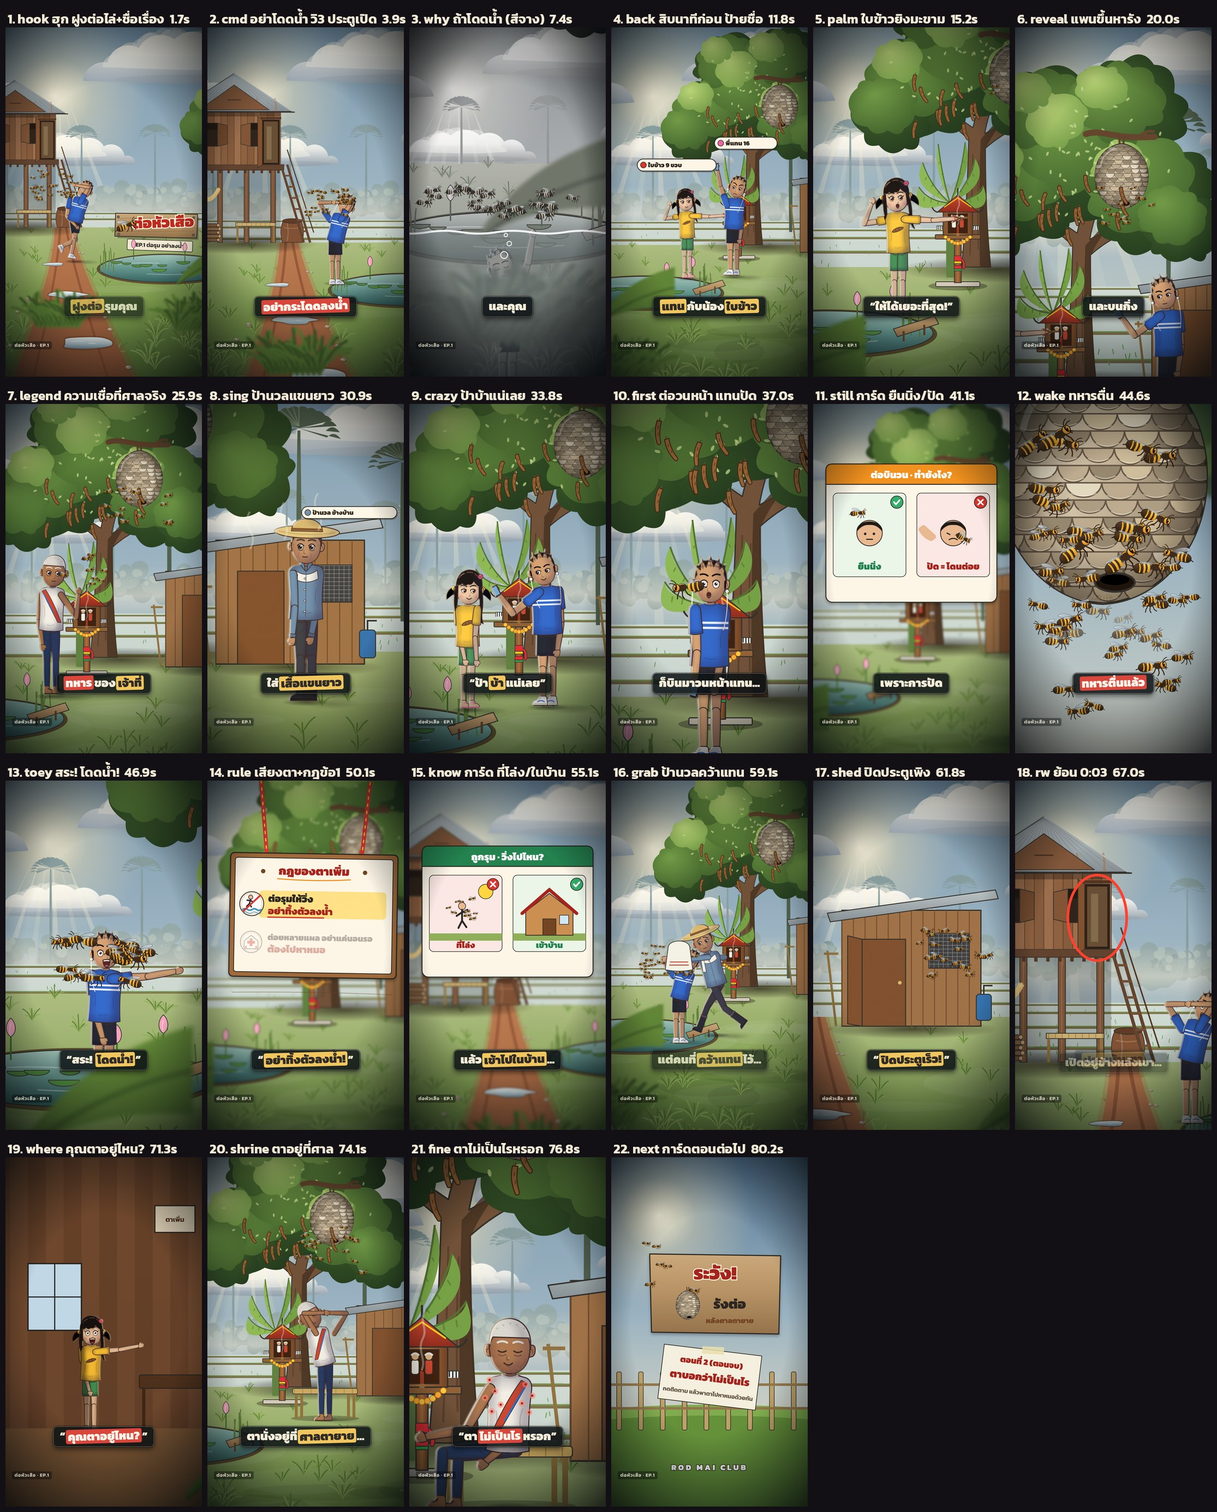
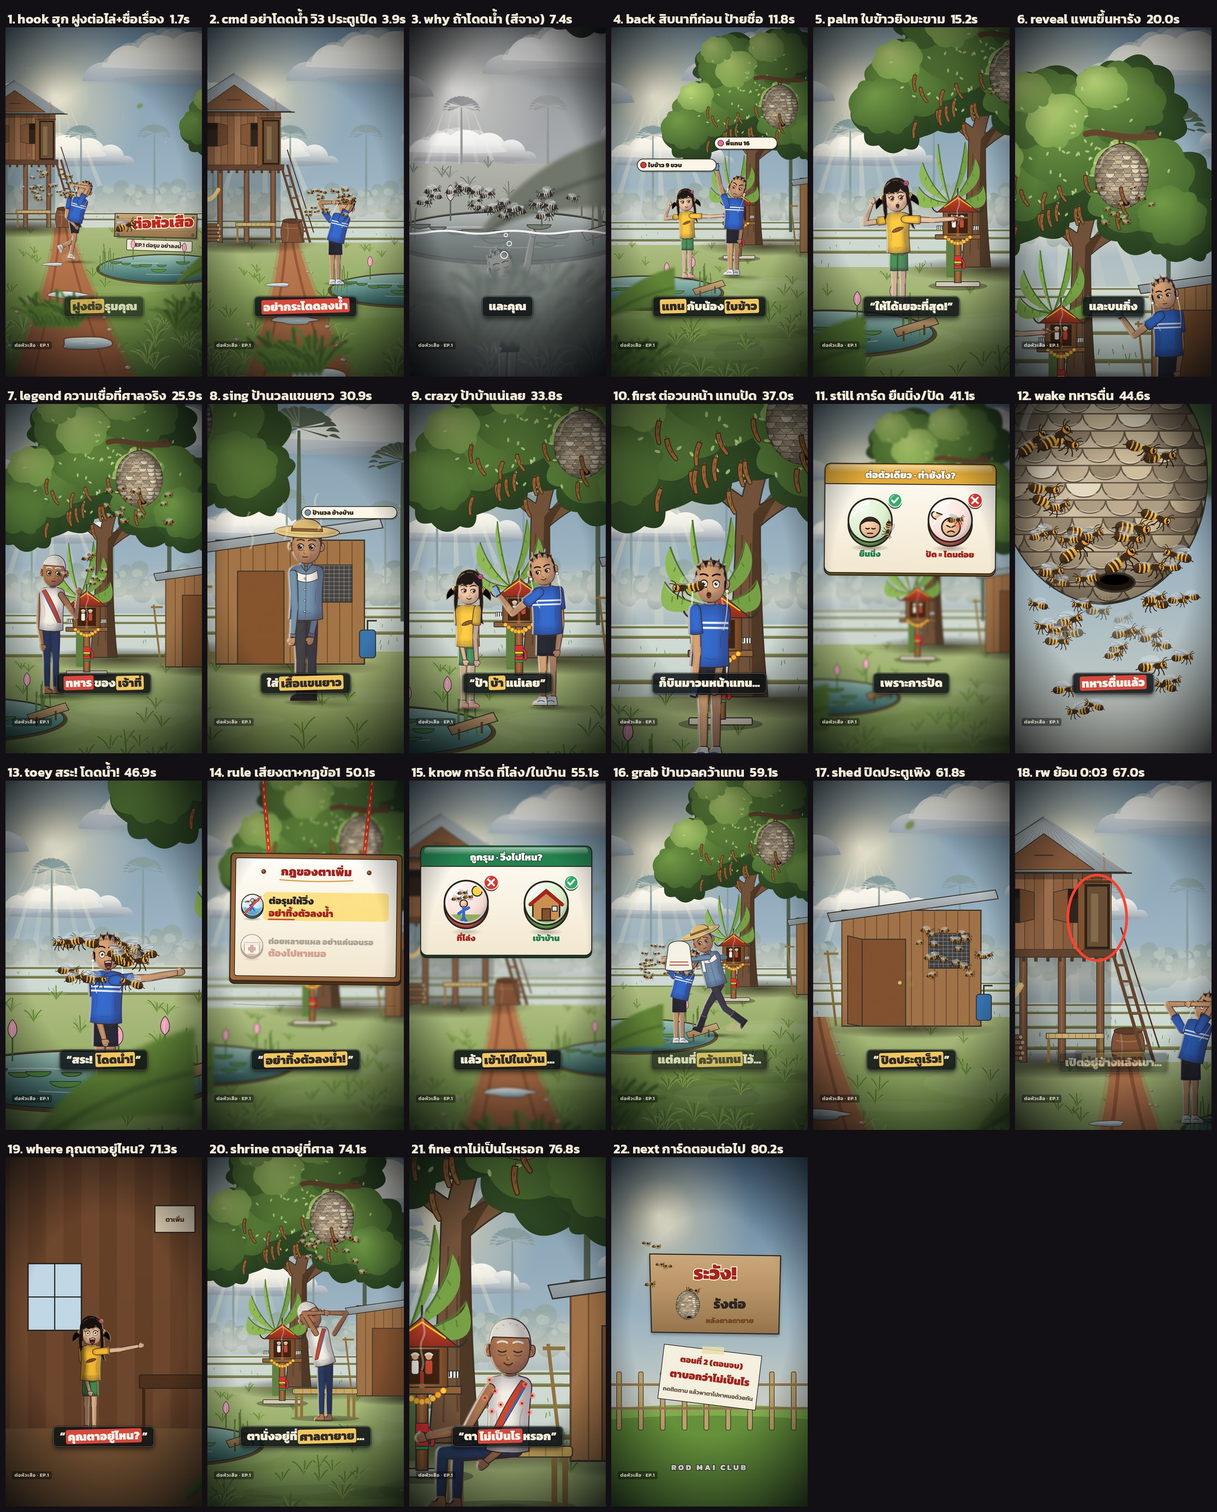
hornet: rig2 joints without the wooden-doll seam (thigh/upper-arm shape redrawn over the knee/elbow, clipped to a disc), panting pose in a real shot, storyboards refreshed
Claude-Session: https://claude.ai/code/session_017iwyCvx1zDsQSsZQNMKKUs

diff --git a/video/hornet/lib/rig2.js b/video/hornet/lib/rig2.js
@@ -1,0 +1,223 @@
+// Rig v2: the same skeleton, joints and ids as rig.js (so every pose mode, track and shot keeps working), drawn as
+// illustrated characters instead of capsule puppets: tapered limbs with form shading, a shaped skull and jaw, eyes with
+// iris and catch-lights, hair in two layers (#id-hairB behind the torso follows the head), clothes with folds and hems,
+// shaped hands and shoes, a soft contact shadow. Thin warm line instead of the heavy black outline.
+// A cast entry opts in with v2: { ... } (see the spec below); Rig.build falls back to the old builder otherwise.
+(function () {
+  const NS = "http://www.w3.org/2000/svg";
+  const LINE = "#3a2622";
+  const f = (v) => (+v).toFixed(1);
+  const rgb = (h) => { h = h.replace("#", ""); return [0, 2, 4].map((i) => parseInt(h.substr(i, 2), 16)); };
+  const hex = (a) => "#" + a.map((v) => Math.max(0, Math.min(255, Math.round(v))).toString(16).padStart(2, "0")).join("");
+  const mix = (a, b, k) => { const A = rgb(a), B = rgb(b); return hex(A.map((v, i) => v + (B[i] - v) * k)); };
+  const dk = (c, k) => mix(c, "#000000", k);
+  // shadows lean cool and violet, never plain grey
+  const shade = (c, k = 0.24) => mix(dk(c, k), "#3b2a5c", 0.14);
+  const hi = (c, k = 0.25) => mix(c, "#fff6e6", k);
+
+  Sets.DEFS += `
+    <linearGradient id="r2Cyl" x1="0" y1="0" x2="1" y2="0"><stop offset="0" stop-color="#1c1030" stop-opacity=".26"/><stop offset=".28" stop-color="#1c1030" stop-opacity="0"/>
+      <stop offset=".66" stop-color="#1c1030" stop-opacity="0"/><stop offset="1" stop-color="#1c1030" stop-opacity=".3"/></linearGradient>
+    <linearGradient id="r2AO" x1="0" y1="0" x2="0" y2="1"><stop offset="0" stop-color="#1c1030" stop-opacity=".22"/><stop offset=".22" stop-color="#1c1030" stop-opacity="0"/>
+      <stop offset=".8" stop-color="#1c1030" stop-opacity="0"/><stop offset="1" stop-color="#1c1030" stop-opacity=".28"/></linearGradient>
+    <radialGradient id="r2Head" cx=".42" cy=".38" r=".66"><stop offset=".55" stop-color="#3a1424" stop-opacity="0"/><stop offset="1" stop-color="#3a1424" stop-opacity=".3"/></radialGradient>
+    <radialGradient id="r2Blush"><stop offset="0" stop-color="#ff6a7a" stop-opacity=".42"/><stop offset="1" stop-color="#ff6a7a" stop-opacity="0"/></radialGradient>
+    <radialGradient id="r2Contact"><stop offset="0" stop-color="#0a0608" stop-opacity=".55"/><stop offset=".6" stop-color="#0a0608" stop-opacity=".25"/><stop offset="1" stop-color="#0a0608" stop-opacity="0"/></radialGradient>
+    <radialGradient id="r2EyeGlow"><stop offset="0" stop-color="#d8ff9a" stop-opacity=".75"/><stop offset=".45" stop-color="#7dff6a" stop-opacity=".25"/><stop offset="1" stop-color="#7dff6a" stop-opacity="0"/></radialGradient>`;
+
+  // a tapered limb from (0,0) to (0,len): rounded ends overlap the joints, a slight swell at the top third
+  const limbD = (len, w0, w1, sw = 2) => {
+    const a = w0 / 2, b = w1 / 2;
+    return `M${f(-a)},0C${f(-a)},${f(-a * 1.3)} ${f(a)},${f(-a * 1.3)} ${f(a)},0Q${f(a + sw)},${f(len * 0.38)} ${f(b)},${f(len)}` +
+      `C${f(b)},${f(len + b * 1.3)} ${f(-b)},${f(len + b * 1.3)} ${f(-b)},${f(len)}Q${f(-a - sw * 0.6)},${f(len * 0.38)} ${f(-a)},0Z`;
+  };
+  const paint = (d, fill, o = {}) => `<path d="${d}" fill="${fill}" stroke="${o.line || LINE}" stroke-width="${o.sw ?? 2.6}" stroke-linejoin="round"/>` +
+    (o.cyl === false ? "" : `<path d="${d}" fill="url(#r2Cyl)"/>`) + (o.ao ? `<path d="${d}" fill="url(#r2AO)"/>` : "");
+
+  // ---------------- face ----------------
+  const EX = [-17, 19], EY = -548;
+  function eyeSet(P) {
+    const iris = P.iris || "#4a2e20", brow = P.brow || P.hair.c, lid = LINE, lash = P.lash;
+    const sclera = (rx, ry, dy = 0) => EX.map((x) => `<ellipse cx="${x}" cy="${EY + dy}" rx="${rx}" ry="${ry}" fill="#fbf7f0" stroke="${lid}" stroke-width="1.6"/>`).join("");
+    const pupil = (r, dx = 1.5, dy = 1) => EX.map((x) => `<circle cx="${x + dx}" cy="${EY + dy}" r="${r}" fill="${iris}"/><circle cx="${x + dx}" cy="${EY + dy}" r="${f(r * 0.55)}" fill="#160e0c"/>
+      <circle cx="${f(x + dx - r * 0.38)}" cy="${f(EY + dy - r * 0.45)}" r="${f(Math.max(1.6, r * 0.32))}" fill="#fff"/><circle cx="${f(x + dx + r * 0.35)}" cy="${f(EY + dy + r * 0.42)}" r="1" fill="#fff" opacity=".8"/>`).join("");
+    const lids = (lift = 0) => EX.map((x, i) => `<path d="M${x - 10},${EY - 3 - lift}Q${x},${EY - 15 - lift} ${x + 10},${EY - 4 - lift}" stroke="${lid}" stroke-width="3.4" fill="none" stroke-linecap="round"/>` +
+      (lash ? `<path d="M${x + (i ? 10 : -10)},${EY - 4 - lift}l${i ? 4 : -4},-4" stroke="${lid}" stroke-width="2.6" stroke-linecap="round"/>` : "")).join("");
+    const brows = (ty = 0, tilt = 0) => EX.map((x, i) => { const s = i ? 1 : -1, inner = -tilt * 1, outer = tilt * 0.6;
+      return `<path d="M${x - 11},${EY - 20 + ty + (s < 0 ? outer : inner)}Q${x},${EY - 26 + ty} ${x + 11},${EY - 20 + ty + (s < 0 ? inner : outer)}" stroke="${brow}" stroke-width="4.6" fill="none" stroke-linecap="round"/>`; }).join("");
+    const bags = P.bags ? EX.map((x) => `<path d="M${x - 9},${EY + 9}q9,7 18,0" stroke="${shade(P.skin, 0.3)}" stroke-width="3" fill="none" opacity=".8"/>`).join("") : "";
+    return {
+      normal: sclera(8.6, 10.4) + pupil(6.8) + lids() + brows() + bags,
+      side: sclera(8.6, 9.6) + pupil(6.4, 4.2, 1.5) + EX.map((x) => `<path d="M${x - 10},${EY - 2}Q${x},${EY - 12} ${x + 10},${EY - 3}L${x + 10},${EY - 10}H${x - 10}Z" fill="${P.skin}"/>`).join("") +
+        EX.map((x) => `<path d="M${x - 10},${EY - 2}Q${x},${EY - 10} ${x + 10},${EY - 3}" stroke="${lid}" stroke-width="3.4" fill="none" stroke-linecap="round"/>`).join("") + brows(2, -2) + bags,
+      wide: sclera(10, 12.4, -1) + pupil(4.6, 0.5, -1) + lids(3) + brows(-7, -2) + bags,
+      closed: EX.map((x) => `<path d="M${x - 9},${EY + 1}Q${x},${EY + 7} ${x + 9},${EY + 1}" stroke="${lid}" stroke-width="3.2" fill="none" stroke-linecap="round"/>`).join("") + brows(2) + bags,
+      pain: EX.map((x, i) => { const s = i ? -1 : 1; return `<path d="M${x - 9 * s},${EY - 5}L${x + 6 * s},${EY}L${x - 9 * s},${EY + 5}" stroke="${lid}" stroke-width="3.4" fill="none" stroke-linecap="round" stroke-linejoin="round"/>`; }).join("") + brows(4, 6),
+      glow: EX.map((x) => `<circle cx="${x}" cy="${EY}" r="22" fill="url(#r2EyeGlow)"/><ellipse cx="${x}" cy="${EY}" rx="9" ry="10" fill="#c8ff9a"/><ellipse cx="${x}" cy="${EY}" rx="4" ry="5" fill="#f4ffe8"/>`).join("") + brows(4, 7),
+      dead: EX.map((x) => `<ellipse cx="${x}" cy="${EY}" rx="11" ry="10" fill="#22201c" opacity=".55"/><ellipse cx="${x}" cy="${EY}" rx="8.6" ry="9.6" fill="#e6eadc" stroke="${lid}" stroke-width="1.6"/><circle cx="${x + 2}" cy="${EY + 1}" r="2" fill="#5a1010"/>`).join("") + brows(3, 5),
+      worry: sclera(8.6, 10.4) + pupil(6.2, 1, 1.5) + lids() + brows(-3, -6) + bags,
+      angry: sclera(8.6, 8.8, 1) + pupil(6, 1.5, 2) + lids(-2) + brows(5, 7) + bags,
+    };
+  }
+  function mouthSet(P) {
+    const lip = P.lip || shade(P.skin, 0.32), inner = "#5a1e1e", tongue = "#d86a6a";
+    return {
+      smile: `<path d="M-5,-519Q4,-510 14,-519" stroke="${LINE}" stroke-width="3" fill="none" stroke-linecap="round"/><path d="M-1,-512q5,2 10,0" stroke="${lip}" stroke-width="2" fill="none" opacity=".6"/>`,
+      flat: `<path d="M-4,-516Q4,-514 12,-516" stroke="${LINE}" stroke-width="3" fill="none" stroke-linecap="round"/>`,
+      o: `<path d="M-1,-522Q4,-525 9,-522Q12,-512 4,-507Q-4,-512 -1,-522Z" fill="${inner}" stroke="${LINE}" stroke-width="2.4"/><path d="M0,-511q4,-3 8,0" fill="${tongue}"/>`,
+      frown: `<path d="M-5,-511Q4,-519 14,-511" stroke="${LINE}" stroke-width="3" fill="none" stroke-linecap="round"/>`,
+      scream: `<path d="M-9,-524Q4,-528 17,-524Q16,-500 4,-497Q-8,-500 -9,-524Z" fill="${inner}" stroke="${LINE}" stroke-width="2.6"/>
+        <path d="M-7,-523Q4,-526 15,-523L14,-519Q4,-521 -6,-519Z" fill="#f4eee2"/><path d="M-3,-503q7,-6 14,0q-7,4 -14,0z" fill="${tongue}"/>`,
+      snarl: `<path d="M-15,-526Q4,-534 23,-526L20,-506Q4,-498 -12,-506Z" fill="#220505" stroke="${LINE}" stroke-width="2.6"/>
+        <path d="M-12,-525l3,6l3,-6l3,6l3,-6l3,6l3,-6l3,6l3,-6l3,6" stroke="#ece4cf" stroke-width="2.4" fill="none" stroke-linejoin="round"/>`,
+      laugh: `<path d="M-7,-522Q4,-524 16,-522Q14,-506 4,-505Q-6,-506 -7,-522Z" fill="${inner}" stroke="${LINE}" stroke-width="2.6"/><path d="M-5,-521Q4,-523 14,-521L13,-518Q4,-519 -4,-518Z" fill="#f4eee2"/>`,
+    };
+  }
+
+  // ---------------- clothes ----------------
+  // torso outlines by cut; all share the neck at y -488 and the hem near -296
+  function torsoD(kind, w = 1) {
+    const X = (x) => f(x * w);
+    if (kind === "tank") return `M${X(-20)},-488Q0,-472 ${X(20)},-488L${X(32)},-488Q${X(36)},-460 ${X(56)},-450L${X(57)},-424Q${X(55)},-360 ${X(58)},-298Q0,-288 ${X(-58)},-298Q${X(-55)},-360 ${X(-57)},-424L${X(-56)},-450Q${X(-36)},-460 ${X(-32)},-488Z`;
+    if (kind === "coat") return `M${X(-22)},-492Q0,-480 ${X(22)},-492L${X(46)},-486Q${X(64)},-480 ${X(64)},-456L${X(62)},-420Q${X(64)},-330 ${X(72)},-230Q0,-218 ${X(-72)},-230Q${X(-64)},-330 ${X(-62)},-420L${X(-64)},-456Q${X(-64)},-480 ${X(-46)},-486Z`;
+    // tee / shirt / blouse / singlet base: rounded shoulders, a slight waist, a soft hem
+    return `M${X(-22)},-490Q0,-478 ${X(22)},-490L${X(46)},-485Q${X(64)},-479 ${X(64)},-456L${X(61)},-424Q${X(56)},-370 ${X(62)},-296Q${X(30)},-288 0,-290Q${X(-30)},-288 ${X(-62)},-296Q${X(-56)},-370 ${X(-61)},-424L${X(-64)},-456Q${X(-64)},-479 ${X(-46)},-485Z`;
+  }
+
+  function build2(parent, id, P) {
+    const V = P.v2, skin = V.skin, skinS = shade(skin, 0.2), skinD = shade(skin, 0.34), top = V.top.c, w = V.w || 1, k = V.limb || 1;
+    const hair = { c: V.hair.c, s: V.hair.s || shade(V.hair.c, 0.35), sh: V.hair.sh || hi(V.hair.c, 0.35) };
+    const ctx = { skin, skinS, skinD, hair, top, topS: shade(top), LINE, id };
+    const back = (c) => dk(c, 0.1);
+
+    // ---- legs ----
+    const bt = V.bottom, pc = bt.c;
+    const leg = (side) => {
+      const B = side === "B", c = B ? back(pc) : pc, sk = B ? back(skin) : skin;
+      let thigh, shin;
+      const tw0 = 46 * k, tw1 = 36 * k, sw0 = 35 * k, sw1 = 26 * k;
+      if (bt.kind === "shorts") {
+        thigh = paint(limbD(150, tw0 - 6, tw1 - 6), sk) + paint(`M${f(-tw0 / 2 - 3)},-24H${f(tw0 / 2 + 3)}L${f(tw0 / 2 + 5)},92Q0,98 ${f(-tw0 / 2 - 5)},92Z`, c, { ao: true }) +
+          `<path d="M${f(-tw0 / 2 - 4)},84Q0,90 ${f(tw0 / 2 + 4)},84" stroke="${shade(c, 0.3)}" stroke-width="3" fill="none"/>`;
+        shin = paint(limbD(138, sw0 - 6, sw1 - 4), sk);
+      } else {
+        const flare = bt.kind === "sarong" ? 10 : 0;
+        thigh = paint(limbD(150, tw0 + flare, tw1 + flare), c) + (bt.kind === "jeans" ? `<path d="M${f(tw0 / 2 - 7)},-8Q${f(tw0 / 2 - 4)},80 ${f(tw1 / 2 - 6)},150" stroke="${shade(c, 0.3)}" stroke-width="2" fill="none" opacity=".6"/>` : "") +
+          `<path d="M${f(-tw0 / 2 + 8)},40q8,14 18,12" stroke="${shade(c, 0.32)}" stroke-width="2.4" fill="none" opacity=".55"/>`;
+        shin = paint(limbD(132, sw0 + flare, sw1 + flare + 2), c) +
+          (bt.kind === "jeans" ? `<path d="M${f(-sw1 / 2 - 2)},112H${f(sw1 / 2 + 2)}L${f(sw1 / 2 + 3)},128H${f(-sw1 / 2 - 3)}Z" fill="${hi(c, 0.22)}" stroke="${LINE}" stroke-width="2.2"/>` : "") +
+          (bt.kind === "sarong" ? `<path d="M${f(-sw1 / 2 - flare / 2 - 1)},104H${f(sw1 / 2 + flare / 2 + 1)}" stroke="${bt.band || "#d8a83a"}" stroke-width="7"/><path d="M${f(-sw1 / 2 - flare / 2)},116H${f(sw1 / 2 + flare / 2)}" stroke="${bt.band2 || "#a8342a"}" stroke-width="4"/>` : "") +
+          `<path d="M${f(-sw0 / 2 + 6)},30q6,30 2,60" stroke="${shade(c, 0.3)}" stroke-width="2.2" fill="none" opacity=".45"/>`;
+      }
+      const ft = V.feet || { kind: "bare" };
+      let foot;
+      if (ft.kind === "sneaker") {
+        const sc = B ? back(ft.c || "#f4f2ec") : ft.c || "#f4f2ec";
+        foot = `<path d="M-17,120Q-18,108 -6,108H10Q18,110 22,122Q40,126 42,140V146H-19Q-21,134 -17,120Z" fill="${sc}" stroke="${LINE}" stroke-width="2.6" stroke-linejoin="round"/>
+          <path d="M-19,140H42" stroke="${ft.sole || "#d8d2c4"}" stroke-width="6"/><path d="M-19,146H42" stroke="${LINE}" stroke-width="2.6"/>
+          <path d="M8,116l8,8M14,114l8,8" stroke="${ft.lace || "#b8b2a6"}" stroke-width="2.4" stroke-linecap="round"/>${ft.mark ? `<path d="M-8,132q14,-10 30,0" stroke="${ft.mark}" stroke-width="3.5" fill="none"/>` : ""}`;
+      } else if (ft.kind === "boot") {
+        const bc = B ? back(ft.c) : ft.c;
+        foot = `<path d="M-19,50H19L20,124Q38,128 40,142V148H-20Z" fill="${bc}" stroke="${LINE}" stroke-width="2.6" stroke-linejoin="round"/><path d="M-19,50H19L20,124Q38,128 40,142V148H-20Z" fill="url(#r2Cyl)"/>
+          <path d="M-21,50H21V60H-21Z" fill="${hi(bc, 0.2)}" stroke="${LINE}" stroke-width="2.2"/><path d="M-20,142H40" stroke="${dk(bc, 0.35)}" stroke-width="5"/>`;
+      } else { // bare feet, optionally a sandal strap
+        const sk2 = B ? back(skin) : skin;
+        foot = `<path d="M-13,118Q-14,110 -4,110H8Q14,114 18,124Q34,128 36,138Q36,144 28,144H-14Q-17,132 -13,118Z" fill="${sk2}" stroke="${LINE}" stroke-width="2.4" stroke-linejoin="round"/>
+          <path d="M22,136v6M28,136v6" stroke="${skinD}" stroke-width="1.6"/>${ft.kind === "sandal" ? `<path d="M-15,144H38" stroke="${ft.c || "#6a4a2a"}" stroke-width="5"/><path d="M6,118q6,10 16,8" stroke="${ft.c || "#6a4a2a"}" stroke-width="4" fill="none"/>` : ""}`;
+      }
+      // hide the wooden-doll seam at the knee (skill V11): after the shin, redraw the thigh's own shape (fill only) clipped to a disc
+      // round the knee — the shin's top-cap outline inside the thigh disappears, the outer silhouette stays, the leg reads as one piece
+      const kw0 = bt.kind === "shorts" ? tw0 - 6 : tw0 + (bt.kind === "sarong" ? 10 : 0), kw1 = bt.kind === "shorts" ? tw1 - 6 : tw1 + (bt.kind === "sarong" ? 10 : 0);
+      const kneeC = bt.kind === "shorts" ? sk : c, kd = limbD(150, kw0, kw1);
+      const knee = `<clipPath id="${id}-kc${side}"><circle cx="0" cy="150" r="${f(kw1 * 0.95)}"/></clipPath><g clip-path="url(#${id}-kc${side})"><path d="${kd}" fill="${kneeC}"/><path d="${kd}" fill="url(#r2Cyl)"/></g>`;
+      return `<g id="${id}-th${side}"><g>${thigh}</g><g transform="translate(0,150)"><g id="${id}-sh${side}">${shin}${foot}</g></g>${knee}</g>`;
+    };
+
+    // ---- arms ----
+    const tp = V.top;
+    const arm = (side, extra = "") => {
+      const B = side === "B", tc = B ? back(top) : top, sk = B ? back(skin) : skin;
+      const sl = tp.sleeve || "short";
+      const uw0 = 31 * k, uw1 = 25 * k, fw0 = 25 * k, fw1 = 19 * k;
+      let upper = paint(limbD(122, uw0, uw1), sl === "none" ? sk : (sl === "long" || sl === "elbow") ? tc : sk);
+      if (sl === "short") upper += paint(`M${f(-uw0 / 2 - 4)},-10Q${f(-uw0 / 2 - 2)},-34 0,-34Q${f(uw0 / 2 + 2)},-34 ${f(uw0 / 2 + 4)},-10L${f(uw0 / 2 + 7)},58Q0,66 ${f(-uw0 / 2 - 7)},58Z`, tc, { ao: true }) +
+        `<path d="M${f(-uw0 / 2 - 5)},52Q0,60 ${f(uw0 / 2 + 5)},52" stroke="${shade(tc, 0.28)}" stroke-width="2.6" fill="none"/>`;
+      if (sl === "elbow") upper += `<path d="M${f(-uw1 / 2 - 4)},110Q0,120 ${f(uw1 / 2 + 4)},110" stroke="${tp.trim || shade(tc, 0.25)}" stroke-width="5" fill="none" stroke-dasharray="${tp.lace ? "5 3" : "none"}"/>`;
+      const fc = sl === "long" ? tc : sk;
+      let fore = paint(limbD(106, fw0, fw1), fc);
+      if (sl === "long") fore += `<path d="M${f(-fw1 / 2 - 3)},92H${f(fw1 / 2 + 3)}L${f(fw1 / 2 + 2)},104H${f(-fw1 / 2 - 2)}Z" fill="${shade(tc, 0.12)}" stroke="${LINE}" stroke-width="2.2"/>`;
+      if (sl === "elbow" || sl === "short" || sl === "none") fore += `<path d="M-6,30q4,20 0,40" stroke="${skinS}" stroke-width="2" fill="none" opacity=".5"/>`;
+      // the hand: a palm with the thumb folded forward, fingers suggested
+      const hc = sk;
+      const hand = `<path d="M-11,104Q-14,118 -10,128Q-2,138 8,132Q14,124 12,108Z" fill="${hc}" stroke="${LINE}" stroke-width="2.4" stroke-linejoin="round"/>
+        <path d="M9,108Q19,112 16,122Q13,126 9,122" fill="${hc}" stroke="${LINE}" stroke-width="2.2" stroke-linejoin="round"/>
+        <path d="M-6,124q4,4 9,3" stroke="${skinD}" stroke-width="1.6" fill="none"/>${V.wristband && !B ? `<path d="M-11,98H11V106H-11Z" fill="${V.wristband}" stroke="${LINE}" stroke-width="2"/>` : ""}`;
+      const tor = `<g id="${id}-torch" display="none" transform="translate(0,118)"><rect x="-9" y="-6" width="18" height="44" rx="4" fill="#3d3833" stroke="${LINE}" stroke-width="2.6"/>
+          <path id="${id}-beam" d="M-8,38L-230,900H230L8,38Z" fill="url(#beamg)"/></g>`;
+      // the elbow seam, same fix as the knee (skipped when the sleeve ends at the elbow: that edge is a real hem)
+      const upEnd = sl === "none" || sl === "short" ? sk : tc, ud = limbD(122, uw0, uw1);
+      const elbow = upEnd === fc ? `<clipPath id="${id}-ec${side}"><circle cx="0" cy="122" r="${f(uw1 * 0.95)}"/></clipPath><g clip-path="url(#${id}-ec${side})"><path d="${ud}" fill="${upEnd}"/><path d="${ud}" fill="url(#r2Cyl)"/></g>` : "";
+      return `<g id="${id}-ua${side}">${upper}<g transform="translate(0,122)"><g id="${id}-fa${side}">${fore}${hand}<g id="${id}-hand${side}">${side === "F" ? tor : ""}${extra}</g></g></g>${elbow}</g>`;
+    };
+
+    // ---- torso ----
+    const tD = torsoD(tp.kind, w);
+    let torso = "";
+    if (tp.kind === "tank" || tp.kind === "singlet") // bare shoulders under the straps
+      torso += paint(`M${f(-22 * w)},-492Q0,-482 ${f(22 * w)},-492L${f(48 * w)},-482Q${f(62 * w)},-474 ${f(60 * w)},-440L${f(-60 * w)},-440Q${f(-62 * w)},-474 ${f(-48 * w)},-482Z`, skin);
+    torso += paint(tD, top, { ao: true });
+    // folds: under the chest, the waist pull, the hem
+    torso += `<path d="M${f(-40 * w)},-404q10,26 4,52M${f(36 * w)},-396q-6,30 2,56M${f(-20 * w)},-318q16,6 34,-2" stroke="${shade(top, 0.3)}" stroke-width="2.6" fill="none" stroke-linecap="round" opacity=".55"/>`;
+    torso += typeof V.print === "function" ? V.print(ctx) : V.print || "";
+    if (tp.neck === "collar") torso += `<path d="M${f(-24 * w)},-494L-2,-466L${f(-8 * w)},-500ZM${f(24 * w)},-494L2,-466L${f(8 * w)},-500Z" fill="${tp.collar || hi(top, 0.15)}" stroke="${LINE}" stroke-width="2.4" stroke-linejoin="round"/>
+      <path d="M0,-466V-300" stroke="${shade(top, 0.3)}" stroke-width="2.4"/>${[-440, -400, -360, -322].map((y) => `<circle cx="4" cy="${y}" r="3.2" fill="${tp.button || hi(top, 0.4)}" stroke="${LINE}" stroke-width="1.4"/>`).join("")}`;
+    else if (tp.kind !== "coat") torso += `<path d="M${f(-22 * w)},-490Q0,-478 ${f(22 * w)},-490" stroke="${shade(top, 0.22)}" stroke-width="5" fill="none" stroke-linecap="round"/>`;
+    if (tp.kind === "coat") torso += `<path d="M${f(-24 * w)},-492L-4,-420V-226M${f(24 * w)},-492L4,-420" stroke="${LINE}" stroke-width="2.4" fill="none"/>
+      <path d="M${f(-22 * w)},-492L-4,-420L${f(-30 * w)},-446L${f(-34 * w)},-480Z M${f(22 * w)},-492L4,-420L${f(30 * w)},-446L${f(34 * w)},-480Z" fill="${hi(top, 0.3)}" stroke="${LINE}" stroke-width="2.2" stroke-linejoin="round"/>
+      <rect x="${f(26 * w)}" y="-380" width="26" height="30" rx="3" fill="${shade(top, 0.08)}" stroke="${LINE}" stroke-width="2"/>`;
+    // the pelvis joins the thighs under the hem (shorts / trousers / sarong)
+    const pelvis = paint(`M${f(-46 * k)},-336H${f(46 * k)}L${f(45 * k)},-296Q${f(24 * k)},-276 0,-286Q${f(-24 * k)},-276 ${f(-45 * k)},-296Z`, pc, { cyl: false });
+
+    // ---- head ----
+    const headD = "M-45,-556C-47,-606 -20,-616 3,-616C28,-616 50,-604 49,-556C48,-526 37,-503 12,-496C3,-494 -6,-494 -14,-497C-36,-505 -45,-527 -45,-556Z";
+    const ear = (x, s) => `<path d="M${x},-560q${s * 14},-6 ${s * 14},10q0,16 ${-s * 13},16" fill="${skin}" stroke="${LINE}" stroke-width="2.4"/><path d="M${x + s * 3},-552q${s * 7},2 ${s * 5},10" stroke="${skinD}" stroke-width="2" fill="none"/>`;
+    const eyes = eyeSet({ ...V, skin, hair }), mouths = mouthSet({ ...V, skin });
+    const eyeG = Object.entries(eyes).map(([n, v]) => `<g class="eye-${n}" display="${n === "normal" ? "inline" : "none"}">${v}</g>`).join("");
+    const mouthG = Object.entries(mouths).map(([n, v]) => `<g class="mouth-${n}" display="${n === "smile" ? "inline" : "none"}">${v}</g>`).join("");
+    const head = `${ear(-43, -1)}${ear(47, 1)}
+      <path d="${headD}" fill="${skin}" stroke="${LINE}" stroke-width="2.6"/><path d="${headD}" fill="url(#r2Head)"/>
+      <path d="M-40,-528Q-30,-500 -6,-496" stroke="${skinS}" stroke-width="5" fill="none" opacity=".35" stroke-linecap="round"/>
+      <ellipse cx="-27" cy="-525" rx="11" ry="7" fill="url(#r2Blush)" opacity="${V.blush ?? 1}"/><ellipse cx="33" cy="-525" rx="11" ry="7" fill="url(#r2Blush)" opacity="${V.blush ?? 1}"/>
+      <path d="M7,-538Q12,-530 9,-525Q4,-523 1,-526Q6,-528 7,-538Z" fill="${skinD}" opacity=".55"/><circle cx="4" cy="-531" r="1.6" fill="#fff" opacity=".35"/>
+      ${V.face || ""}
+      <g id="${id}-eyes">${eyeG}</g><g id="${id}-mouth">${mouthG}</g>
+      <g id="${id}-hair">${typeof V.hair.front === "function" ? V.hair.front(ctx) : V.hair.front || ""}</g>${V.faceTop || ""}
+      <g id="${id}-sweat" display="none"><path d="M44,-584c6,10 8,16 2,19c-6,-3 -6,-9 -2,-19z" fill="#cfe2e6" stroke="${LINE}" stroke-width="2"/></g>`;
+    const neck = `<path d="M-14,-516L-15,-484Q0,-476 15,-484L14,-516Z" fill="${skinS}" stroke="${LINE}" stroke-width="2.4"/><path d="M-14,-506Q0,-494 14,-506" stroke="${skinD}" stroke-width="5" fill="none" opacity=".4"/>`;
+    const hairB = typeof V.hair.back === "function" ? V.hair.back(ctx) : V.hair.back || "";
+
+    const html = `<g id="${id}">
+      <ellipse id="${id}-shadow" cx="0" cy="3" rx="${f(86 * w)}" ry="15" fill="url(#r2Contact)"/>
+      <g id="${id}-root"><g id="${id}-body">
+        <g transform="translate(-20,-300)">${leg("B")}</g>
+        <g transform="translate(20,-300)">${leg("F")}</g>
+        ${pelvis}
+        <g transform="translate(-46,-455)">${arm("B", P.hand || "")}</g>
+        <g id="${id}-torso">
+          <g id="${id}-hairB"><g transform="translate(0,-500) scale(${V.headScale ?? 1.12}) translate(0,500)">${hairB}</g></g>
+          ${neck}${torso}
+          <g id="${id}-acc">${V.extra ? (typeof V.extra === "function" ? V.extra(ctx) : V.extra) : ""}</g>
+          <g id="${id}-head"><g transform="translate(0,-500) scale(${V.headScale ?? 1.12}) translate(0,500)">${head}</g></g>
+        </g>
+        <g transform="translate(46,-455)">${arm("F", P.hand || "")}</g>
+      </g></g></g>`;
+    const g = document.createElementNS(NS, "g");
+    g.innerHTML = html;
+    parent.appendChild(g.firstElementChild);
+    return document.getElementById(id);
+  }
+
+  const old = Rig.build;
+  Rig.build = (parent, id, P) => (P && P.v2 ? build2(parent, id, P) : old(parent, id, P));
+  window.Rig2 = { build2, mix, dk, hi, shade, LINE, limbD, paint };
+})();
